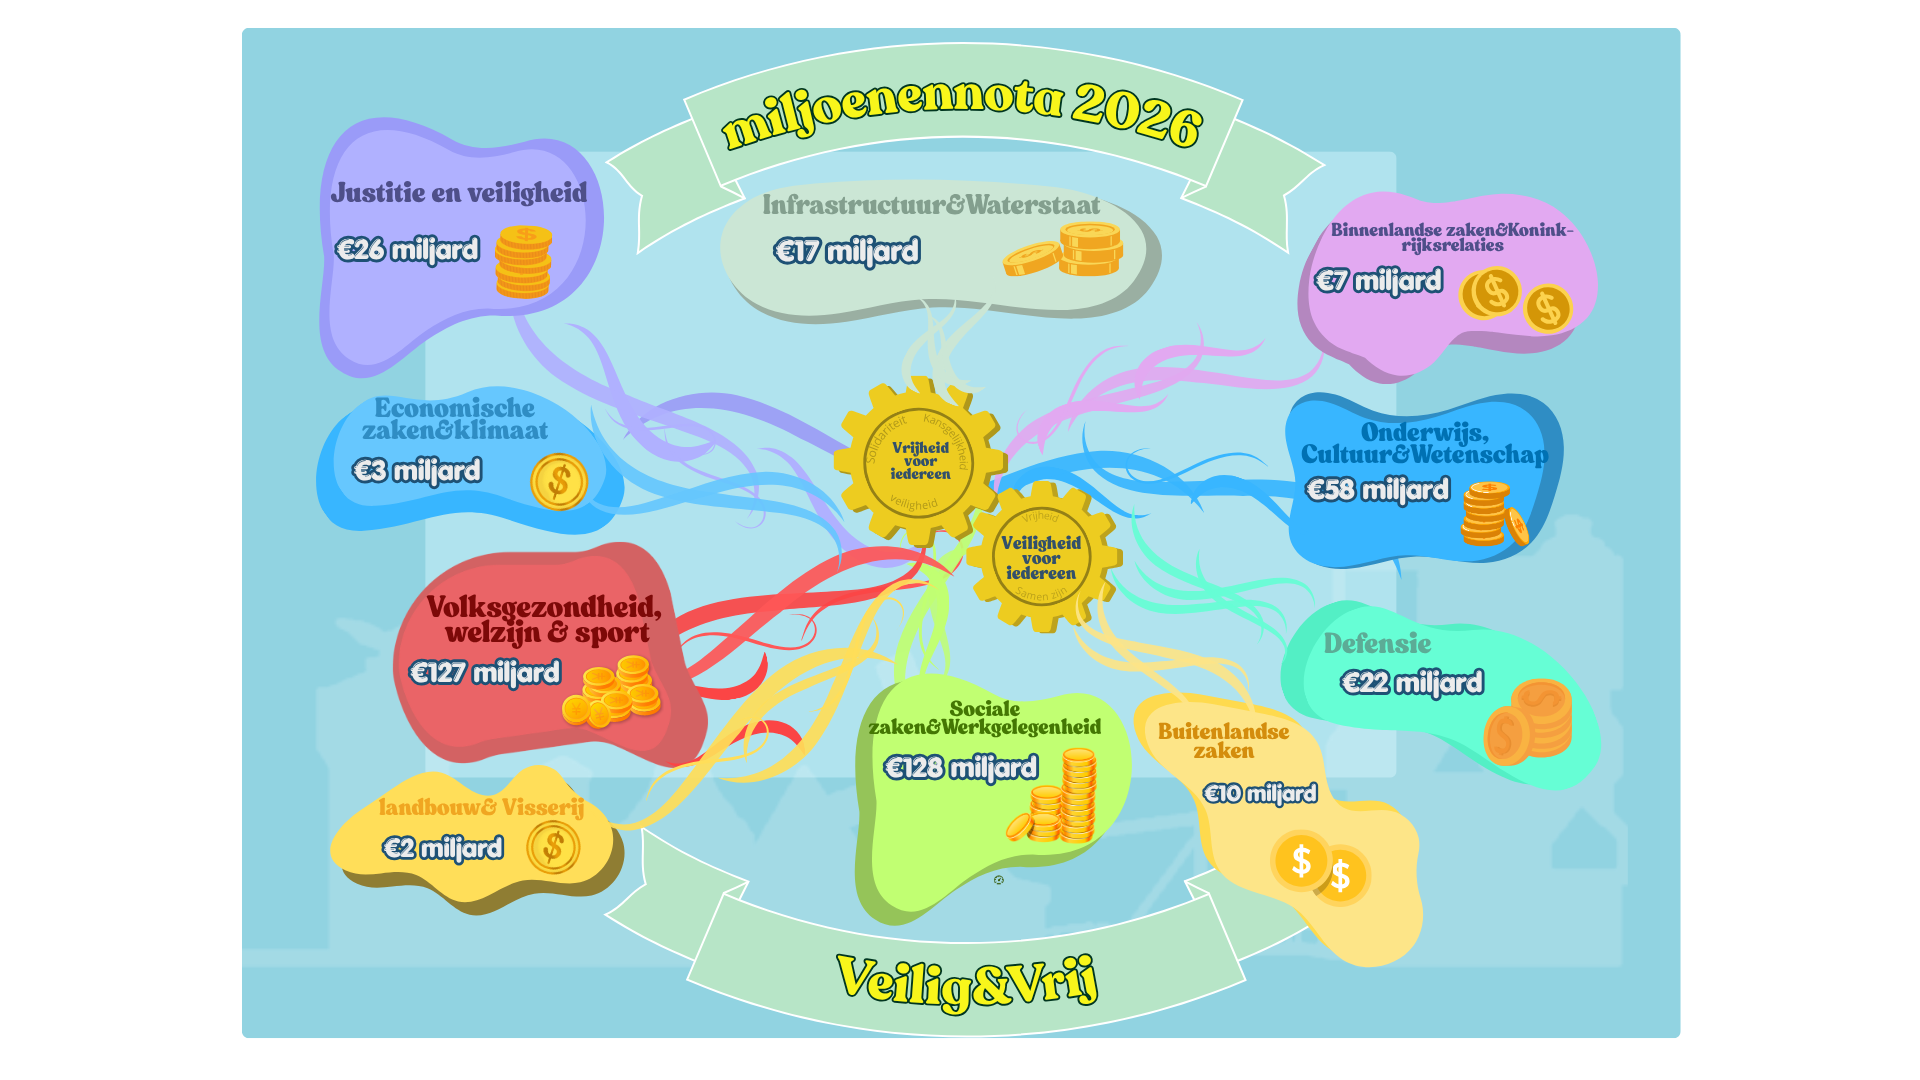
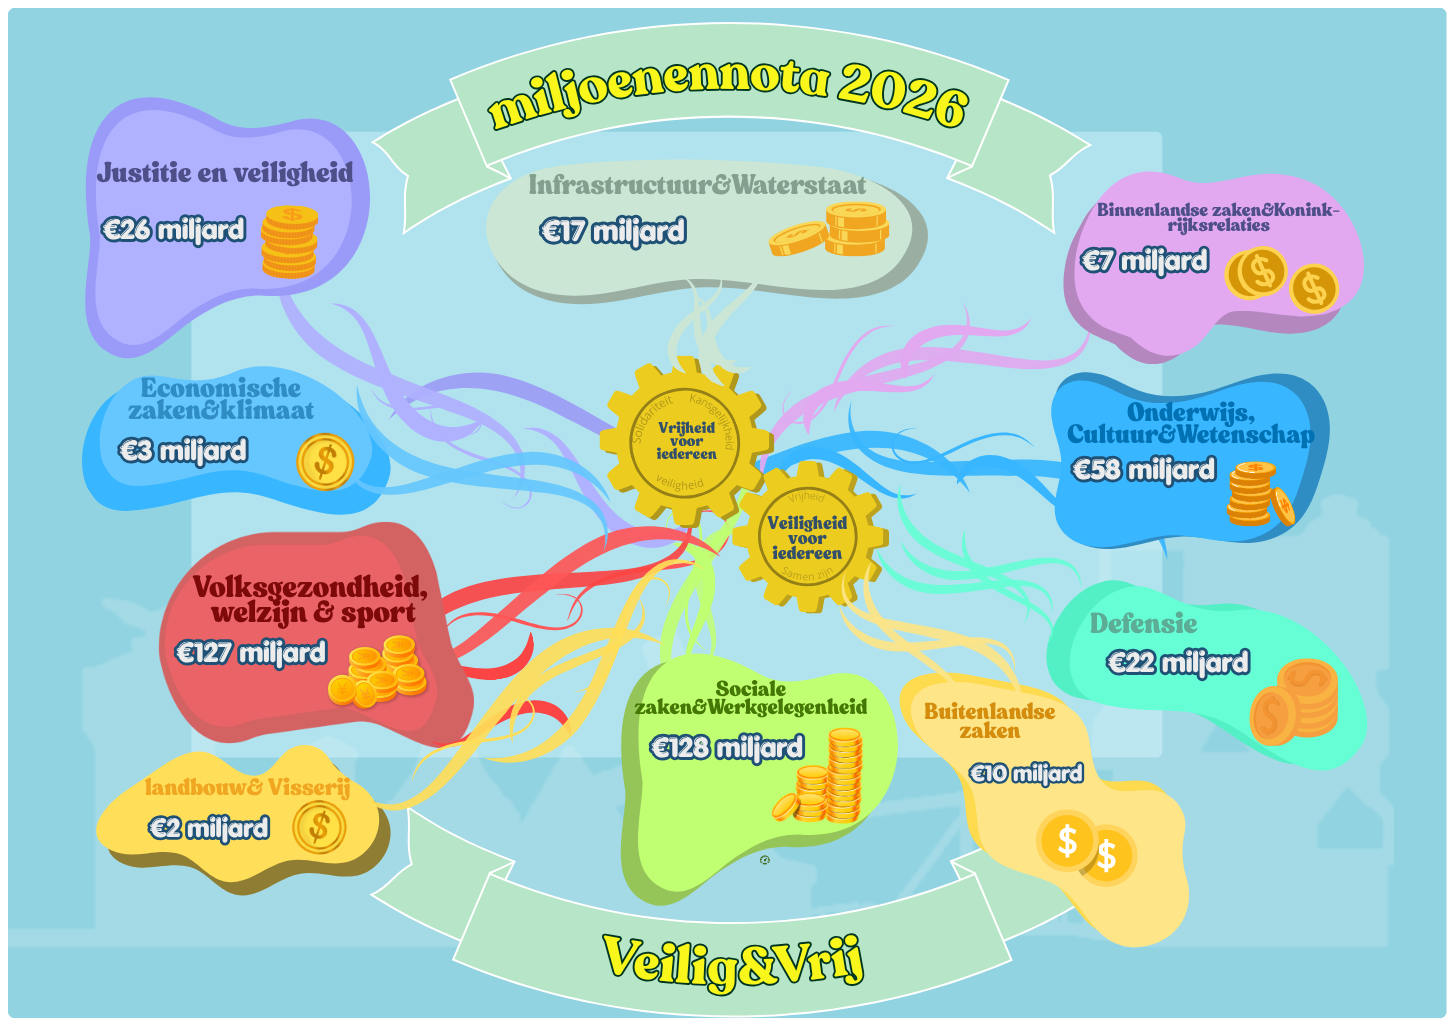
Crop witte randen Miljoenennota afbeelding en vergroot weergave

diff --git a/app/miljoenennota/page.tsx b/app/miljoenennota/page.tsx
@@ -95,14 +95,14 @@ export default function MiljoenennotaPage() {
         </div>
       </section>
 
-      <section style={{ background: 'var(--bg)' }} className="py-16">
-        <div className="max-w-4xl mx-auto px-6">
+      <section style={{ background: 'var(--bg)' }} className="py-10">
+        <div className="max-w-6xl mx-auto px-4">
           <Image
             src="/Miljoenennota 2026.png"
             alt="Miljoenennota 2026 overzicht"
-            width={900}
-            height={1200}
-            style={{ width: '100%', height: 'auto', borderRadius: '12px', border: '1px solid var(--border)' }}
+            width={1454}
+            height={1025}
+            style={{ width: '100%', height: 'auto', borderRadius: '12px' }}
             priority
           />
         </div>